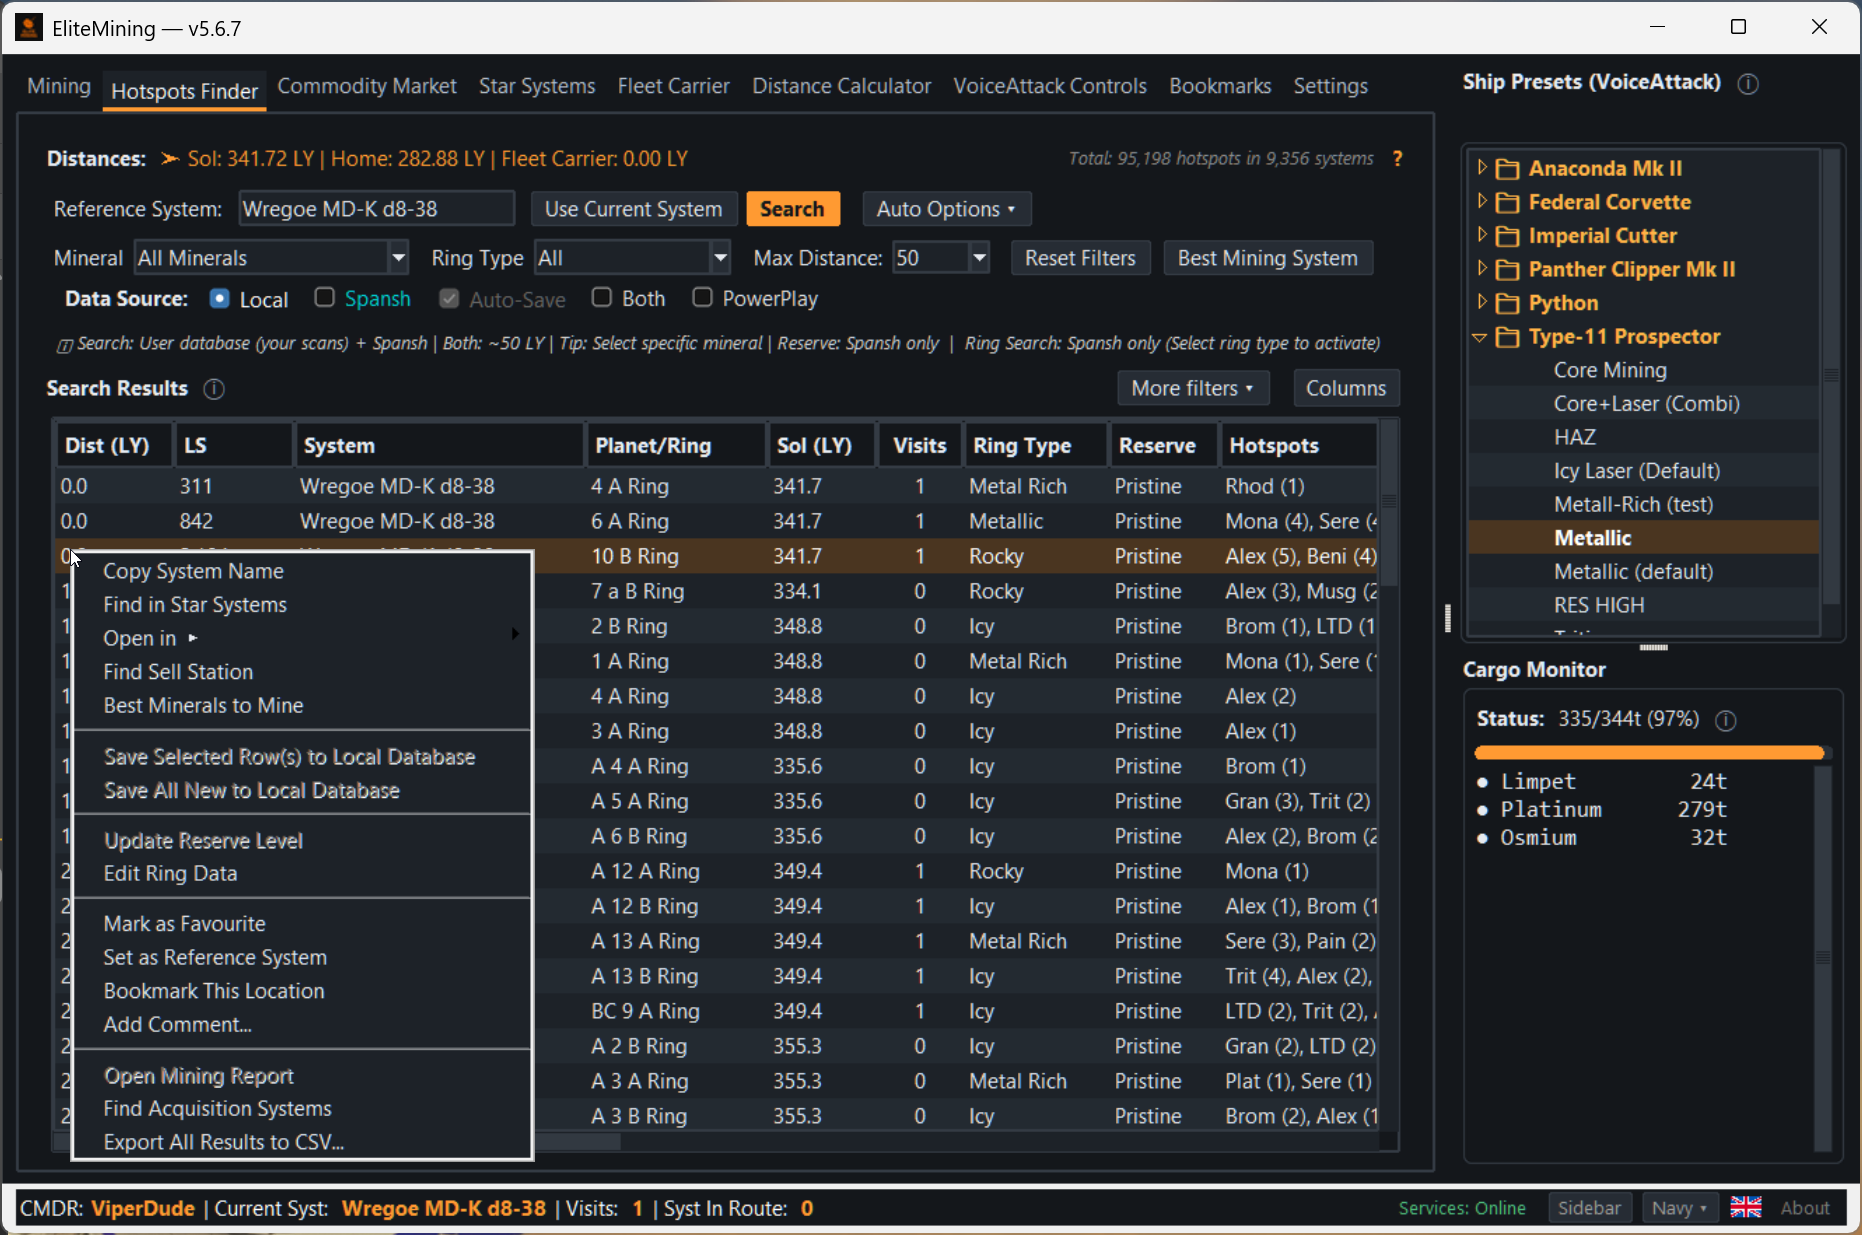
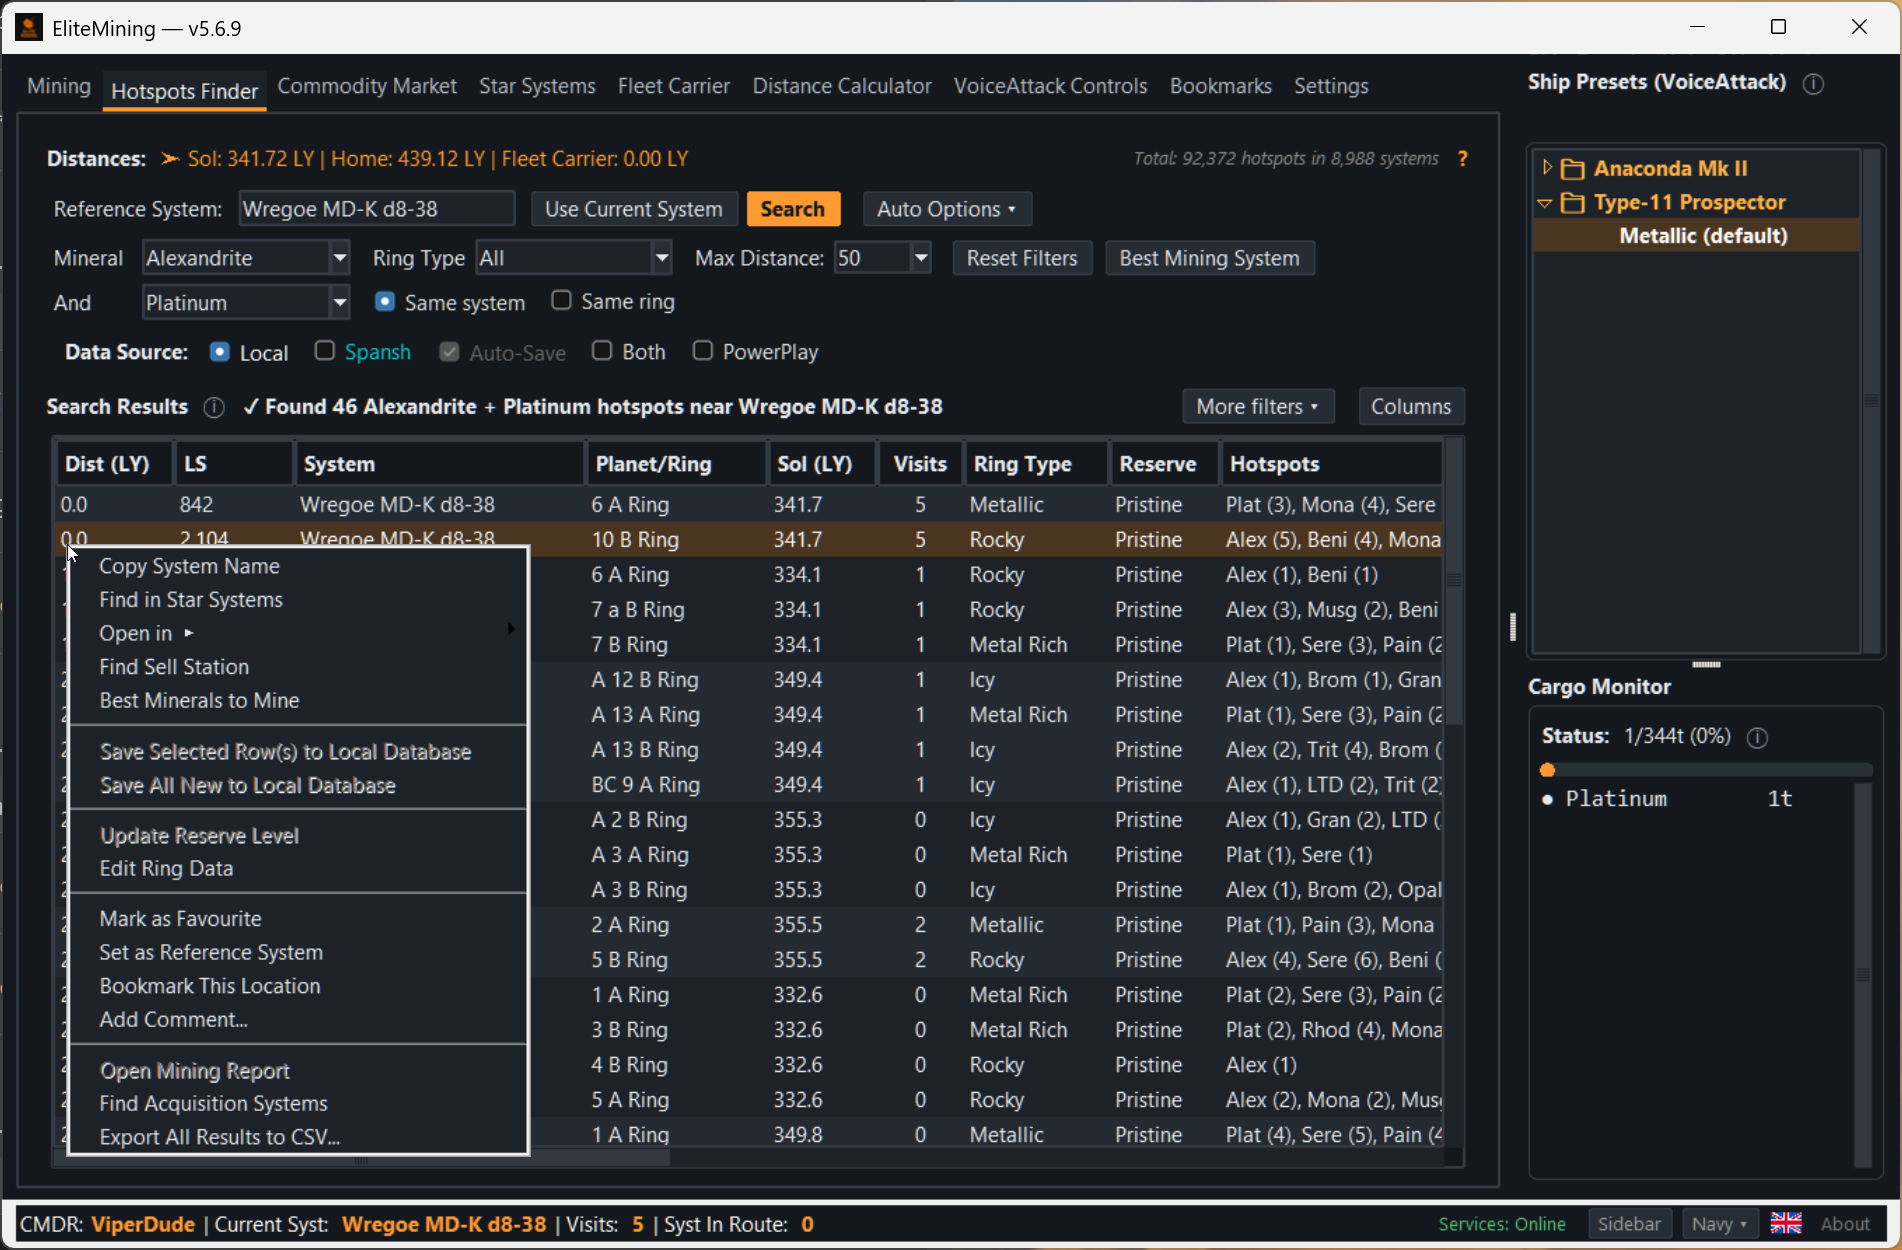
Let two-mineral searches reach the full distance on Spansh, and describe them in the README

diff --git a/app/ring_finder_search.py b/app/ring_finder_search.py
@@ -375,7 +375,7 @@ class RingFinderSearchMixin:
                     rows = self._get_hotspots(reference_system, material_filter, mineral, confirmed_only, max_distance, max_results,
                                               data_source=data_source, is_cancelled=is_cancelled,
                                               spansh_stop_at_limit=False, force_database=force_database,
-                                              reference_coords=reference_coords)
+                                              reference_coords=reference_coords, page_to_distance=True)
                     if min_hotspots > 1:
                         rows = [h for h in rows if h.get('count', 1) >= min_hotspots]
                     # Before combining: filtering afterwards would drop a system's other-mineral ring
@@ -772,7 +772,7 @@ class RingFinderSearchMixin:
             log.error(f"[SPANSH] System name resolution failed: {e}")
             return None
     
-    def _search_spansh_with_filters(self, reference_system: str, material_filter: str, specific_material: str, max_distance: float, max_results: int, reference_coords, ring_type_only: bool = False, is_cancelled=None, stop_at_limit: bool = False) -> List[Dict]:
+    def _search_spansh_with_filters(self, reference_system: str, material_filter: str, specific_material: str, max_distance: float, max_results: int, reference_coords, ring_type_only: bool = False, is_cancelled=None, stop_at_limit: bool = False, page_to_distance: bool = False) -> List[Dict]:
         """Search Spansh API with proper filters for hotspot fallback (EDMC approach)
 
         Args:
@@ -850,7 +850,9 @@ class RingFinderSearchMixin:
             # For "All Minerals" or "All Ring Types" or "Ring Type Only" searches, use pagination to get more results covering larger distances
             # Spansh returns bodies sorted by distance, but with no filters there are many bodies
             # so 500 results might only cover 10-15 LY per page in dense regions. Fetch multiple pages to reach max_distance.
-            use_pagination = self._is_all_minerals(specific_material) or ring_type_english == 'All' or ring_type_only
+            # page_to_distance: two-mineral searches need both lists to reach the full radius
+            use_pagination = (self._is_all_minerals(specific_material) or ring_type_english == 'All'
+                              or ring_type_only or page_to_distance)
             page_size = 500 if use_pagination else 200
             
             # Ring Type Only mode: allow many pages to reach 300 LY (for finding distant rings)
@@ -1148,7 +1150,7 @@ class RingFinderSearchMixin:
             filtered.append(h)
         return filtered, enrichment
 
-    def _get_hotspots(self, reference_system: str, material_filter: str, specific_material: str, confirmed_only: bool, max_distance: float, max_results: int = None, data_source: str = None, ring_type_only_active: bool = False, is_cancelled=None, spansh_stop_at_limit: bool = False, force_database: bool = False, reference_coords=None, cached_spansh=None, spansh_fetched=None) -> List[Dict]:
+    def _get_hotspots(self, reference_system: str, material_filter: str, specific_material: str, confirmed_only: bool, max_distance: float, max_results: int = None, data_source: str = None, ring_type_only_active: bool = False, is_cancelled=None, spansh_stop_at_limit: bool = False, force_database: bool = False, reference_coords=None, cached_spansh=None, spansh_fetched=None, page_to_distance: bool = False) -> List[Dict]:
         """Get hotspot data based on user's data source selection.
 
         cached_spansh: Spansh rows to reuse instead of asking Spansh again.
@@ -1211,7 +1213,8 @@ class RingFinderSearchMixin:
                         reference_coords if reference_coords else self.current_system_coords,
                         ring_type_only=ring_type_only_active,
                         is_cancelled=is_cancelled,
-                        stop_at_limit=spansh_stop_at_limit
+                        stop_at_limit=spansh_stop_at_limit,
+                        page_to_distance=page_to_distance
                     )
                     print(f"[SEARCH] Spansh returned {len(spansh_results)} results")
                     if spansh_fetched is not None:

diff --git a/README.md b/README.md
@@ -302,6 +302,7 @@ Search saved hotspots and Spansh ring data by mineral, ring type, and distance. 
 
 - **Data Source** — Choose Local Database (saved rings and scans), Spansh, or Both. Ring Type Only finds rings without requiring hotspots.
 - **Mineral and ring filters** — Choose a mineral, ring type, distance, and minimum hotspot count (1–20 when a mineral is selected).
+- **Two minerals** — Use the **And** box under Mineral to find systems with a second mineral too, either anywhere in the **same system** or in the **same ring**. Rings are listed in ring-number order, shaded one colour per system. Not available with All Minerals, Overlaps Only, RES Only or Ring Search.
 - **Search range** — Local searches support up to 500 LY; Spansh hotspot coverage is typically around 50 LY, and Ring Search reaches 300 LY.
 - **Overlaps and RES sites** — Find double/triple hotspots and Resource Extraction Sites. The bundled data includes 161 overlaps and 71 RES locations.
 - **Power/State** — Available for Local Database searches. Fortified/Stronghold searches use Spansh up to 500 LY; other states use locally received data and Max Distance.
@@ -331,7 +332,7 @@ Search saved hotspots and Spansh ring data by mineral, ring type, and distance. 
 *Edit Ring Data, opened from the right-click menu.*
 
 <img src="https://github.com/Viper-Dude/EliteMining/blob/main/Screenshot/ring_finder.png" width="900"><br>
-*Hotspot Finder showing search results with minerals filters and distance calculations.*
+*Hotspot Finder showing search results with mineral filters, the second mineral box and distance calculations.*
 
 <details>
 <summary>View acquisition searches and mineral price examples</summary>
